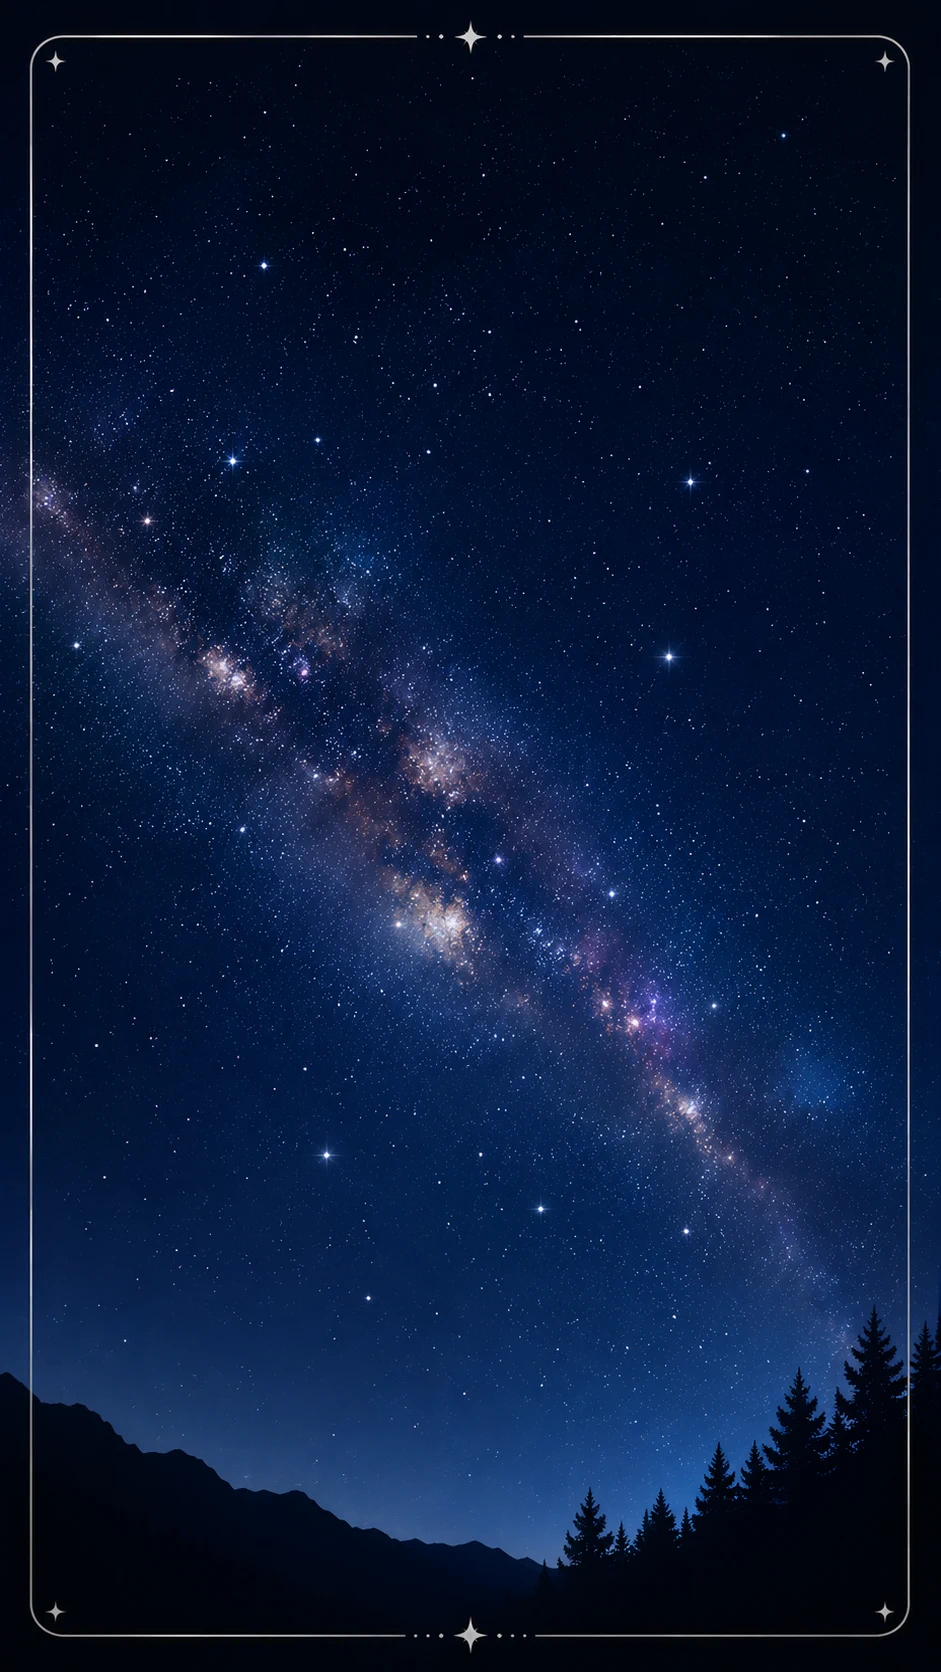
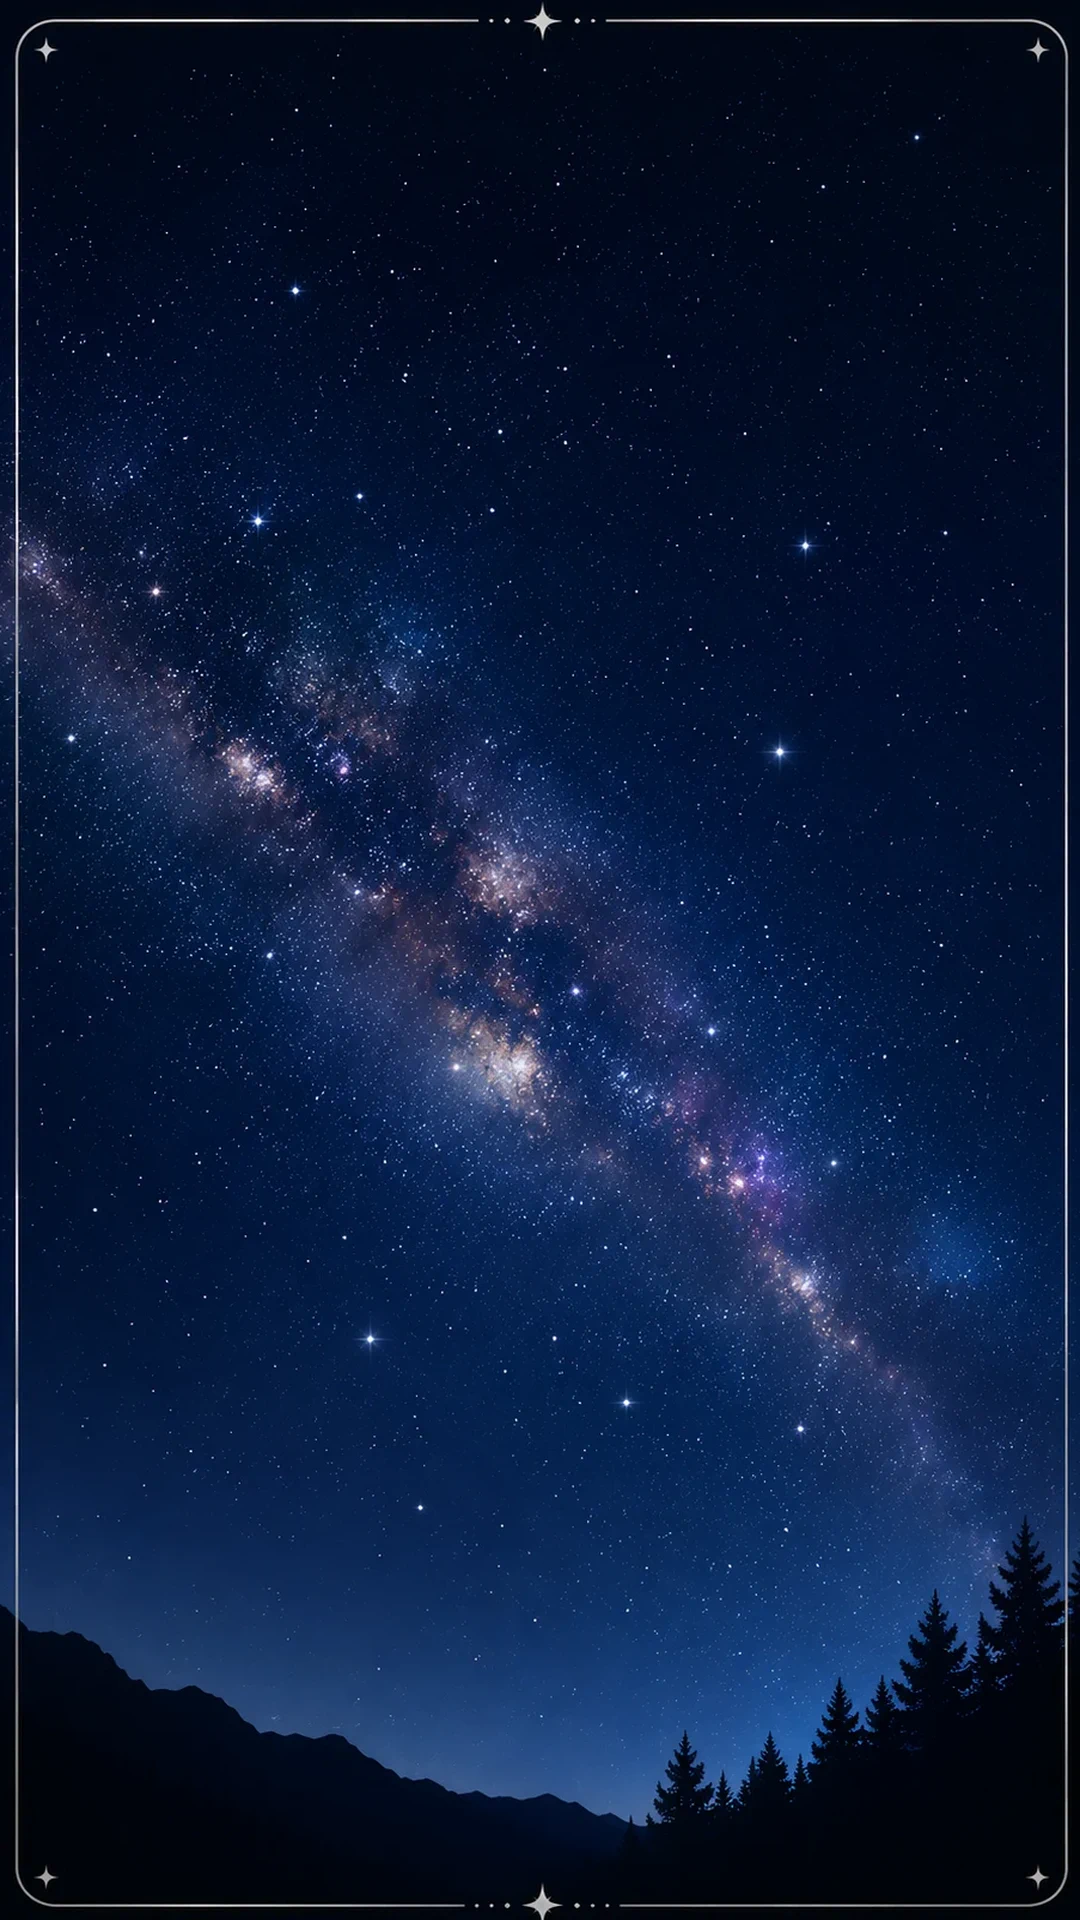
feat(share): 테두리 장식 있는 새 밤하늘 배경으로 교체 + 비율 크롭 제거
references/ 의 새 PNG(903x1629)를 카드 규격 1080x1920 으로 lanczos 리샘플 후
webp(q88, 226KB) 로 인코딩해 Android assets / iOS Resources 양쪽 교체.
기존 941x1672(198KB) 대비 해상도가 카드 출력 규격과 정확히 일치한다.

새 배경에는 둥근 프레임 + 모서리 스파클 테두리 장식이 들어 있어서, 비율을 맞추려
가장자리를 잘라내던 기존 로직이 그 프레임을 잘라먹는다 → 크롭만 걷어내고 이미지
전체를 영역에 꽉 채우도록 바꿨다(나머지 렌더 로직은 그대로).

- ShareCardHelper.drawBackground : 센터 크롭 src Rect 계산 삭제,
  drawBitmap(bg, null, Rect(0,0,W,H)) 로 전체를 채운다. 배경이 이제 정확히
  1080x1920 이라 실제로는 1:1 블릿(무손실).
- StarClusterScreen 겹친 별 카드 : ContentScale.Crop -> FillBounds
  (iOS StarClusterView 는 이미 resizable 로 늘려 채우고 있어 그쪽과 동작이 맞는다).

Claude-Session: https://claude.ai/code/session_01FUxaKLDH9JKCqnYemgZPCi

diff --git a/androidApp/src/main/java/com/chaminwoo/stary/core/util/ShareCardHelper.kt b/androidApp/src/main/java/com/chaminwoo/stary/core/util/ShareCardHelper.kt
@@ -409,26 +409,19 @@ object ShareCardHelper {
     }
 
     /**
-     * 배경 — 밤하늘 이미지(`assets/share_card_bg.webp`) 센터크롭 + 별색 무드 틴트 + 하단 텍스트 스크림.
-     * 이미지 로드 실패 시 남색 그라데이션 폴백(카드는 항상 만들어진다).
+     * 배경 — 밤하늘 이미지(`assets/share_card_bg.webp`) 전체를 카드에 꽉 채워 그린다 + 별색 무드 틴트
+     * + 하단 텍스트 스크림. 이미지 로드 실패 시 남색 그라데이션 폴백(카드는 항상 만들어진다).
+     *
+     * ⚠ **센터 크롭하지 않는다**(2026-09-04) — 배경 이미지에 테두리 장식(둥근 프레임 + 모서리 스파클)이
+     * 들어 있어서, 비율을 맞추려고 가장자리를 잘라내면 그 프레임이 잘려 나간다.
+     * 이미지는 카드 규격(`W`×`H`)에 맞춰 만들어 두고 여기서는 그대로 늘려 채운다.
      */
     private fun drawBackground(context: Context, canvas: Canvas, accent: Int, stageCx: Float, stageCy: Float) {
         val bg = cachedBg?.takeIf { !it.isRecycled } ?: runCatching {
             context.assets.open("share_card_bg.webp").use { BitmapFactory.decodeStream(it) }
         }.getOrNull()?.also { cachedBg = it }
         if (bg != null) {
-            val cardRatio = W.toFloat() / H
-            val srcRatio = bg.width.toFloat() / bg.height
-            val src = if (srcRatio > cardRatio) {
-                val cropW = (bg.height * cardRatio).toInt()
-                val x = (bg.width - cropW) / 2
-                Rect(x, 0, x + cropW, bg.height)
-            } else {
-                val cropH = (bg.width / cardRatio).toInt()
-                val yTop = (bg.height - cropH) / 2
-                Rect(0, yTop, bg.width, yTop + cropH)
-            }
-            canvas.drawBitmap(bg, src, Rect(0, 0, W, H), Paint(Paint.FILTER_BITMAP_FLAG))
+            canvas.drawBitmap(bg, null, Rect(0, 0, W, H), Paint(Paint.FILTER_BITMAP_FLAG))
         } else {
             canvas.drawRect(0f, 0f, W.toFloat(), H.toFloat(), Paint().apply {
                 shader = LinearGradient(

diff --git a/androidApp/src/main/java/com/chaminwoo/stary/feature/diary/screen/StarClusterScreen.kt b/androidApp/src/main/java/com/chaminwoo/stary/feature/diary/screen/StarClusterScreen.kt
@@ -437,7 +437,9 @@ private fun ClusterDiaryCard(
                 bitmap = bgImage,
                 contentDescription = null,
                 modifier = Modifier.matchParentSize(),
-                contentScale = ContentScale.Crop
+                // ⚠ Crop 이 아니라 FillBounds — 배경에 테두리 장식(둥근 프레임 + 모서리 스파클)이 있어서
+                //    비율을 맞추려 가장자리를 잘라내면 그 프레임이 사라진다(2026-09-04, iOS 도 동일하게 늘려 채움).
+                contentScale = ContentScale.FillBounds
             )
             Box(
                 modifier = Modifier
